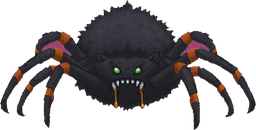
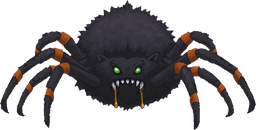
Keyer: fill enclosed pockets by colour, not size
A pocket that is mostly pure background (arm/torso gap) stays open; one
keyed only by the shadow rule (a dark ear crease) is creature and is
filled. All eight creatures re-keyed.

Changed region(s): [[0.6875, 0.3077, 0.8438, 0.4308], [0.1562, 0.3077, 0.2812, 0.4308]]

diff --git a/tools/key_monster.py b/tools/key_monster.py
@@ -65,20 +65,10 @@ def fill_holes(mask):
     return ~outside
 
 
-def small_holes(mask, max_area):
+def holes_to_fill(mask, pure_bg):
+    """Enclosed transparent pockets whose pixels are mostly NOT pure
+    background (so: keyed by the shadow rule inside the creature)."""
     holes = fill_holes(mask) & ~mask
-    try:
-        from scipy import ndimage
-        labels, n = ndimage.label(holes)
-        if n == 0:
-            return holes
-        sizes = ndimage.sum(holes, labels, range(1, n + 1))
-        keep = np.zeros(n + 1, bool)
-        keep[1:] = np.asarray(sizes) <= max_area
-        return keep[labels]
-    except ImportError:
-        pass
-    # No scipy: flood each hole by hand (holes are a small share of the image).
     h, w = holes.shape
     seen = np.zeros_like(holes)
     out = np.zeros_like(holes)
@@ -96,7 +86,8 @@ def small_holes(mask, max_area):
                 if 0 <= ny < h and 0 <= nx < w and holes[ny, nx] and not seen[ny, nx]:
                     seen[ny, nx] = True
                     stack.append((ny, nx))
-        if len(comp) <= max_area:
+        bg_share = sum(1 for y, x in comp if pure_bg[y, x]) / len(comp)
+        if bg_share < 0.5:
             for y, x in comp:
                 out[y, x] = True
     return out
@@ -165,9 +156,12 @@ def main():
     # background-hued colour in an eye or an ear): only transparent regions
     # that reach the image border stay transparent.
     if not mist:
-        # Only SMALL holes: a fleck in an eye or an ear. A big enclosed pocket
-        # (the gap between a golem's arm and its torso) is real background.
-        holes = small_holes(fig, max_area=max(64, int(0.001 * fig.sum())))
+        # Enclosed transparent pockets: a gap of pure background between a
+        # golem's arm and its torso stays open; a patch that was keyed only
+        # by the shadow rule (a dark crease inside an ear, a fleck in an eye)
+        # is creature and is filled. Decided per pocket by its share of pure
+        # background pixels.
+        holes = holes_to_fill(fig, bg)
         alpha[holes] = 255
         fig = fig | holes
         alpha[~fig] = 0
